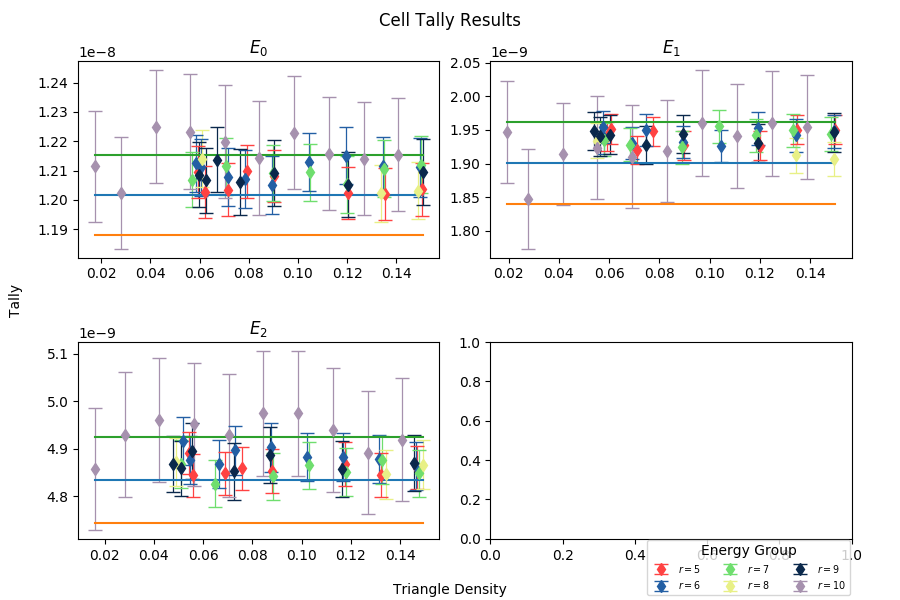
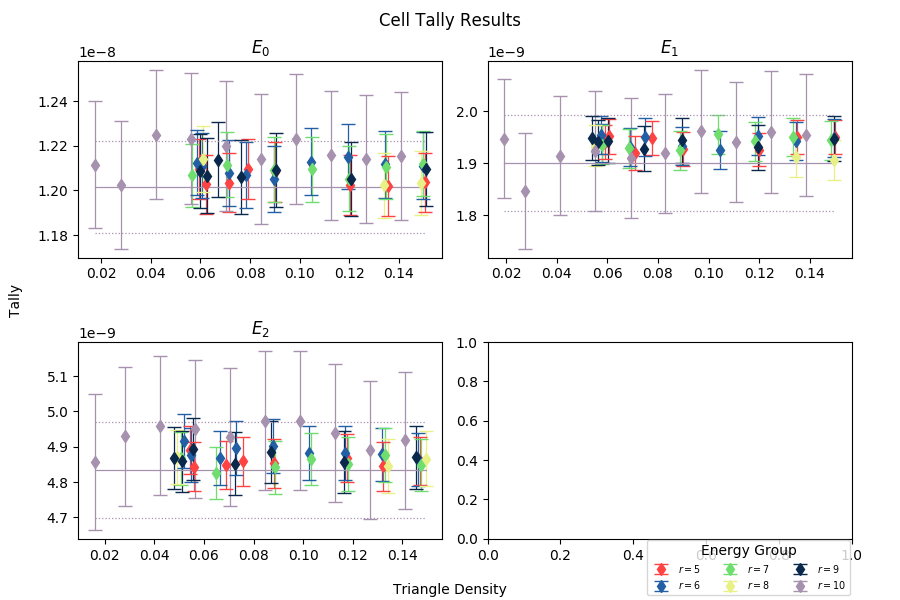
tally results as a function of the spacing ratio

diff --git a/performance-analysis/analysis/plot_data.py b/performance-analysis/analysis/plot_data.py
@@ -7,17 +7,17 @@ import matplotlib.pyplot as plt
 from pandas.core.frame import DataFrame
 
 colors = {0: '#FF4242', 1: '#235FA4', 2: '#6FDE6E', 'cwwm': '#E8F086',
-          'analog': '#0A284B', 'reference': '#A691AE'}
+          'analog': '#0A284B', 'reference': '#A691AE', 3: '#0A284B'}
 color_r = {5: '#FF4242', 6: '#235FA4', 7: '#6FDE6E', 8: '#E8F086',
            9: '#0A284B', 10: '#A691AE'}
 markers = {0: 'x', 1: 'x', 2: 'x', 'cwwm': 'o',
            'analog': 'd', 'reference': 'D'}
-e_bounds = {0: '1.0000E-05', 1: '1.0000E-01', 2: '2.0000E+01'}
+e_bounds = {0: '1.0000E-05', 1: '1.0000E-01', 2: '2.0000E+01', 3: 'total'}
 ratios = [5, 6, 7, 8, 9, 10]
 dpi = 600
 lw = .9  # line width for plots
 cs = 5  # error bar cap size
-n_sigma = 2
+n_sigma = 3
 
 
 def calc_ratios(m1, e1, m2, e2):
@@ -64,27 +64,27 @@ def plot_interior_averages(df, refine):
         df_default = df.loc[df['mode'] == 'default'].loc[df['ratio'] == r]
 
         for e in e_bounds.keys():
-            # default wwig value
-            default_val = df_default.loc[
-                df_default['energy group'] == e][
-                    'interior average {}'.format(refine)]
+            if e != 3:
+                # default wwig value
+                default_val = df_default.loc[
+                    df_default['energy group'] == e][
+                        'interior average {}'.format(refine)]
+                # get applied factors and measurements (compared to default)
+                df_sub_sub = df_sub.loc[df_sub['energy group'] == e]
+                factor_list = df_sub_sub['factor']
+                interior_averages = df_sub_sub[
+                    'interior average {}'.format(refine)] / float(default_val)
 
-            # get applied factors and measurements (compared to default)
-            df_sub_sub = df_sub.loc[df_sub['energy group'] == e]
-            factor_list = df_sub_sub['factor']
-            interior_averages = df_sub_sub[
-                'interior average {}'.format(refine)] / float(default_val)
+                # only need legend labels one time
+                if i == 0:
+                    leg = '$E_{}$'.format(e)
+                else:
+                    leg = ''
 
-            # only need legend labels one time
-            if i == 0:
-                leg = '$E_{}$'.format(e)
-            else:
-                leg = ''
-
-            # plot energy group
-            ax[pr][pc].plot(
-                factor_list, interior_averages, linestyle='',
-                marker=markers[e], color=colors[e], label=leg)
+                # plot energy group
+                ax[pr][pc].plot(
+                    factor_list, interior_averages, linestyle='',
+                    marker=markers[e], color=colors[e], label=leg)
 
         # set title and axes labels
         ax[pr][pc].set_title('Ratio = {}'.format(r), fontsize='small')
@@ -119,7 +119,6 @@ def plot_cell_tally(df_refinement, df_output, refine):
     fig, ax = plt.subplots(nrows=2, ncols=2, sharex=False,
                            sharey=False, figsize=(9, 6))
 
-    groups = list(e_bounds.values()) + ['total']
     for i, g in e_bounds.items():
         # subplot positions
         pr = positions[i][0]
@@ -179,9 +178,12 @@ def plot_cell_tally(df_refinement, df_output, refine):
                                     color=color_r[r], label=leg)
                 ax[pr][pc].set_title('$E_{}$'.format(i))
 
-            ax[pr][pc].plot([m_min, m_max], ref_tally_plt)
-            ax[pr][pc].plot([m_min, m_max], ref_sigma_plt_n)
-            ax[pr][pc].plot([m_min, m_max], ref_sigma_plt_p)
+            ax[pr][pc].plot([m_min, m_max], ref_tally_plt,
+                            color=colors['reference'], ls='-', lw=lw)
+            ax[pr][pc].plot([m_min, m_max], ref_sigma_plt_n,
+                            color=colors['reference'], ls=':', lw=lw)
+            ax[pr][pc].plot([m_min, m_max], ref_sigma_plt_p,
+                            color=colors['reference'], ls=':', lw=lw)
 
     # labels
     ylabel = 'Tally'
@@ -194,6 +196,66 @@ def plot_cell_tally(df_refinement, df_output, refine):
     plt.tight_layout(pad=2.7, w_pad=.5)
 
     save_name = 'raw_tally_results_{}.png'.format(refine)
+    plt.savefig(save_name)
+
+
+def plot_tally_ratios(df_output):
+
+    positions = [[0, 0], [0, 1], [1, 0], [1, 1]]
+    fig, ax = plt.subplots(nrows=2, ncols=2, sharex=True,
+                           sharey=False, figsize=(9, 6))
+
+    for i, g in e_bounds.items():
+        # subplot positions
+        pr = positions[i][0]
+        pc = positions[i][1]
+
+        ref_tally = df_output.loc[df_output['mode'] ==
+                                  'reference']['tally ' + g]
+        ref_err = df_output.loc[df_output['mode'] ==
+                                'reference']['error ' + g]
+        ref_tally_plt = np.full(2, float(ref_tally))
+        ref_sigma_plt_p = np.full(
+            2, float(ref_tally + ref_err * ref_tally * n_sigma))
+        ref_sigma_plt_n = np.full(
+            2, float(ref_tally - ref_err * ref_tally * n_sigma))
+
+        # get tally results
+        df_sub2 = df_output.loc[df_output['mode'] == 'wwig'].loc[
+            df_output['refine'] == 'default'].loc[
+                df_output['tally ' + g].notnull()]
+        tally_vals = df_sub2[['tally ' + g, 'error ' + g, 'ratio']]
+
+        # plot raw values
+        yerr = tally_vals['tally ' + g] * tally_vals['error ' + g] * n_sigma
+        ax[pr][pc].errorbar(tally_vals['ratio'], tally_vals['tally ' + g], yerr=yerr,
+                            marker='d', lw=lw, capsize=cs, ls='',
+                            color=colors[i], label='')
+        ax[pr][pc].plot([ratios[0], ratios[-1]], ref_tally_plt,
+                        color=colors['reference'], ls='-', lw=lw)
+        ax[pr][pc].plot([ratios[0], ratios[-1]], ref_sigma_plt_n,
+                        color=colors['reference'], ls=':', lw=lw)
+        ax[pr][pc].plot([ratios[0], ratios[-1]], ref_sigma_plt_p,
+                        color=colors['reference'], ls=':', lw=lw)
+
+        if i == 3:
+            title = '$E_{total}$'
+        else:
+            title = '$E_{}$'.format(i)
+        ax[pr][pc].set_title(title)
+
+    # labels
+    ylabel = 'Tally'
+    xlabel = 'WWIG spacing ratio'
+    title = 'Cell Tally Results'
+    #fig.legend(bbox_to_anchor=(0.95, 0), loc='lower right', ncol=3,
+    #           fontsize='x-small', title='Energy Group')
+    fig.suptitle(title)
+    fig.text(0.01, 0.5, ylabel, va='center', rotation='vertical')
+    fig.text(0.5, 0.01, xlabel, ha='center')
+    plt.tight_layout(pad=2.7, w_pad=.5)
+
+    save_name = 'raw_tally_results_ratios.png'
     plt.savefig(save_name)
 
 
@@ -216,6 +278,8 @@ if __name__ == '__main__':
         sort=False, ignore_index=True)
 
     print(df_refinement.keys())
+
+    plot_tally_ratios(df_output)
 
     # plot average interior roughness and coarseness
     plot_interior_averages(df_refinement, 'roughness')
